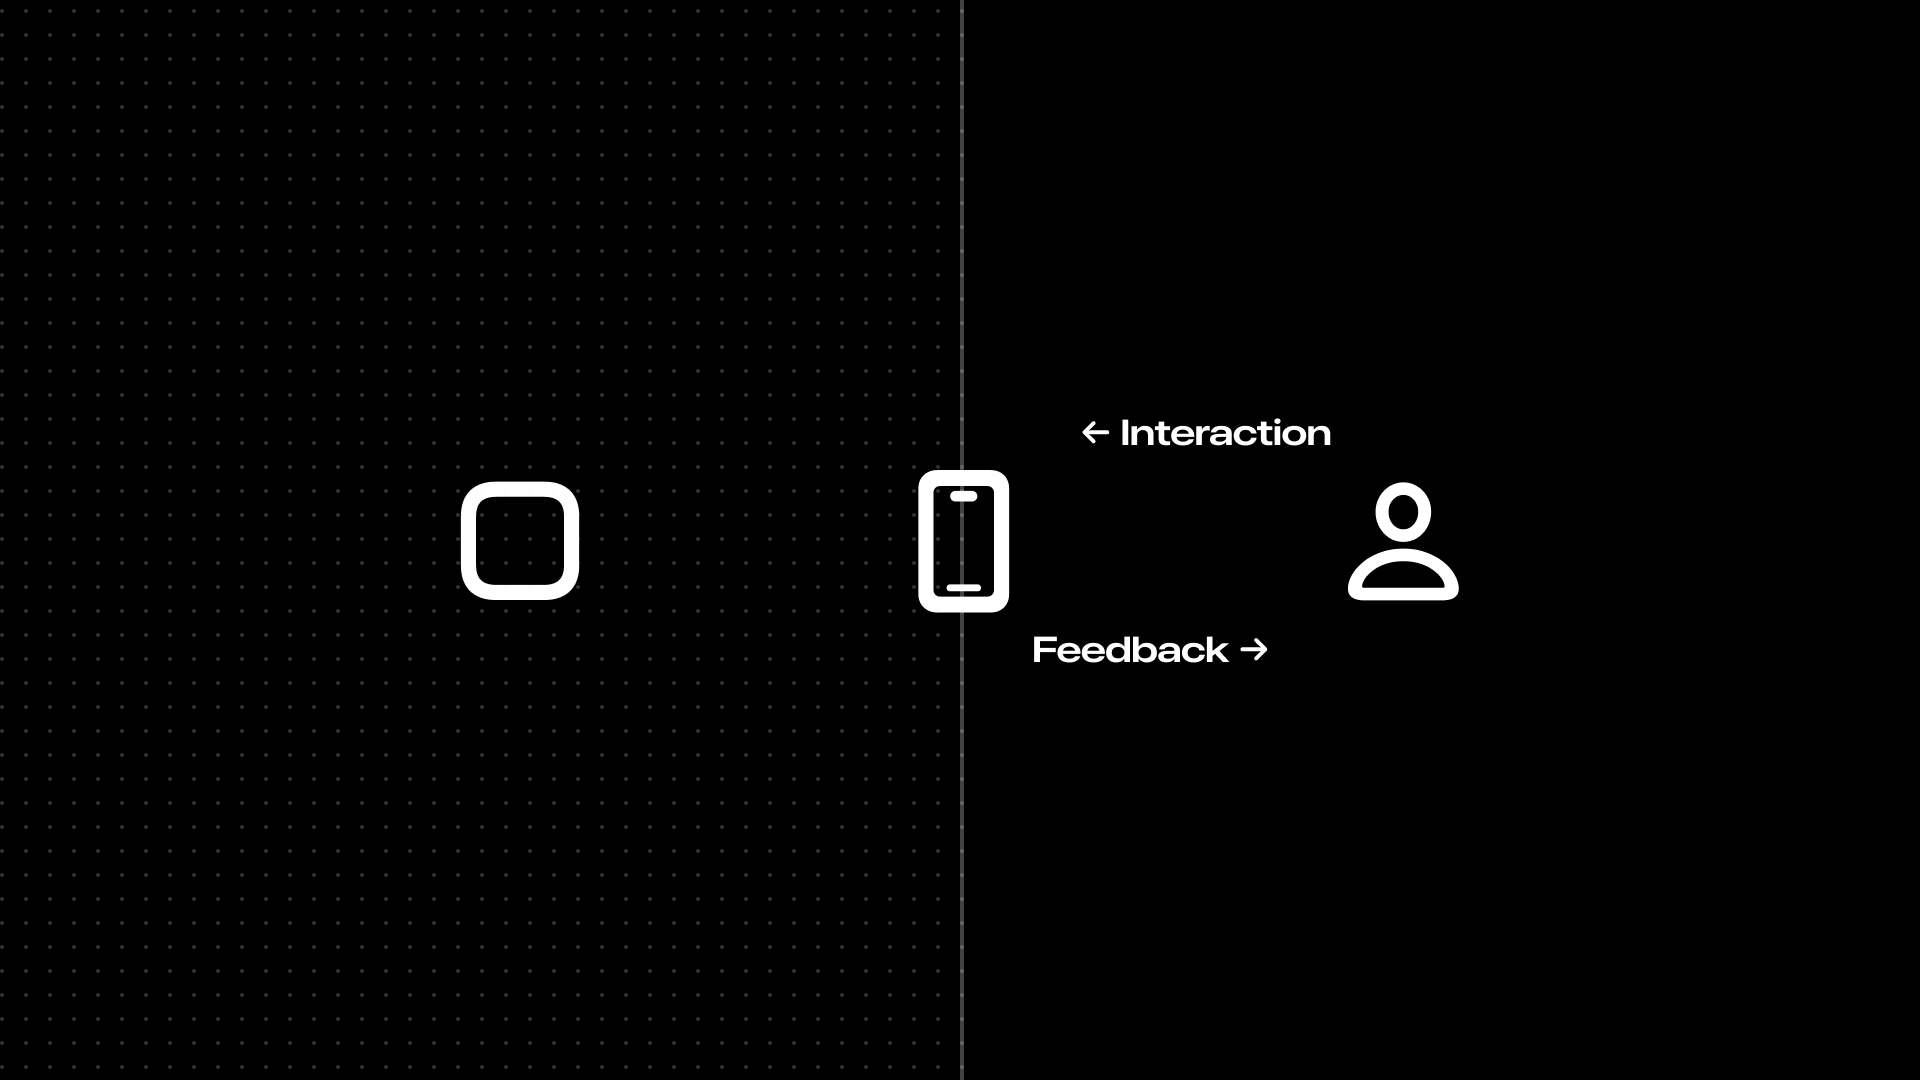
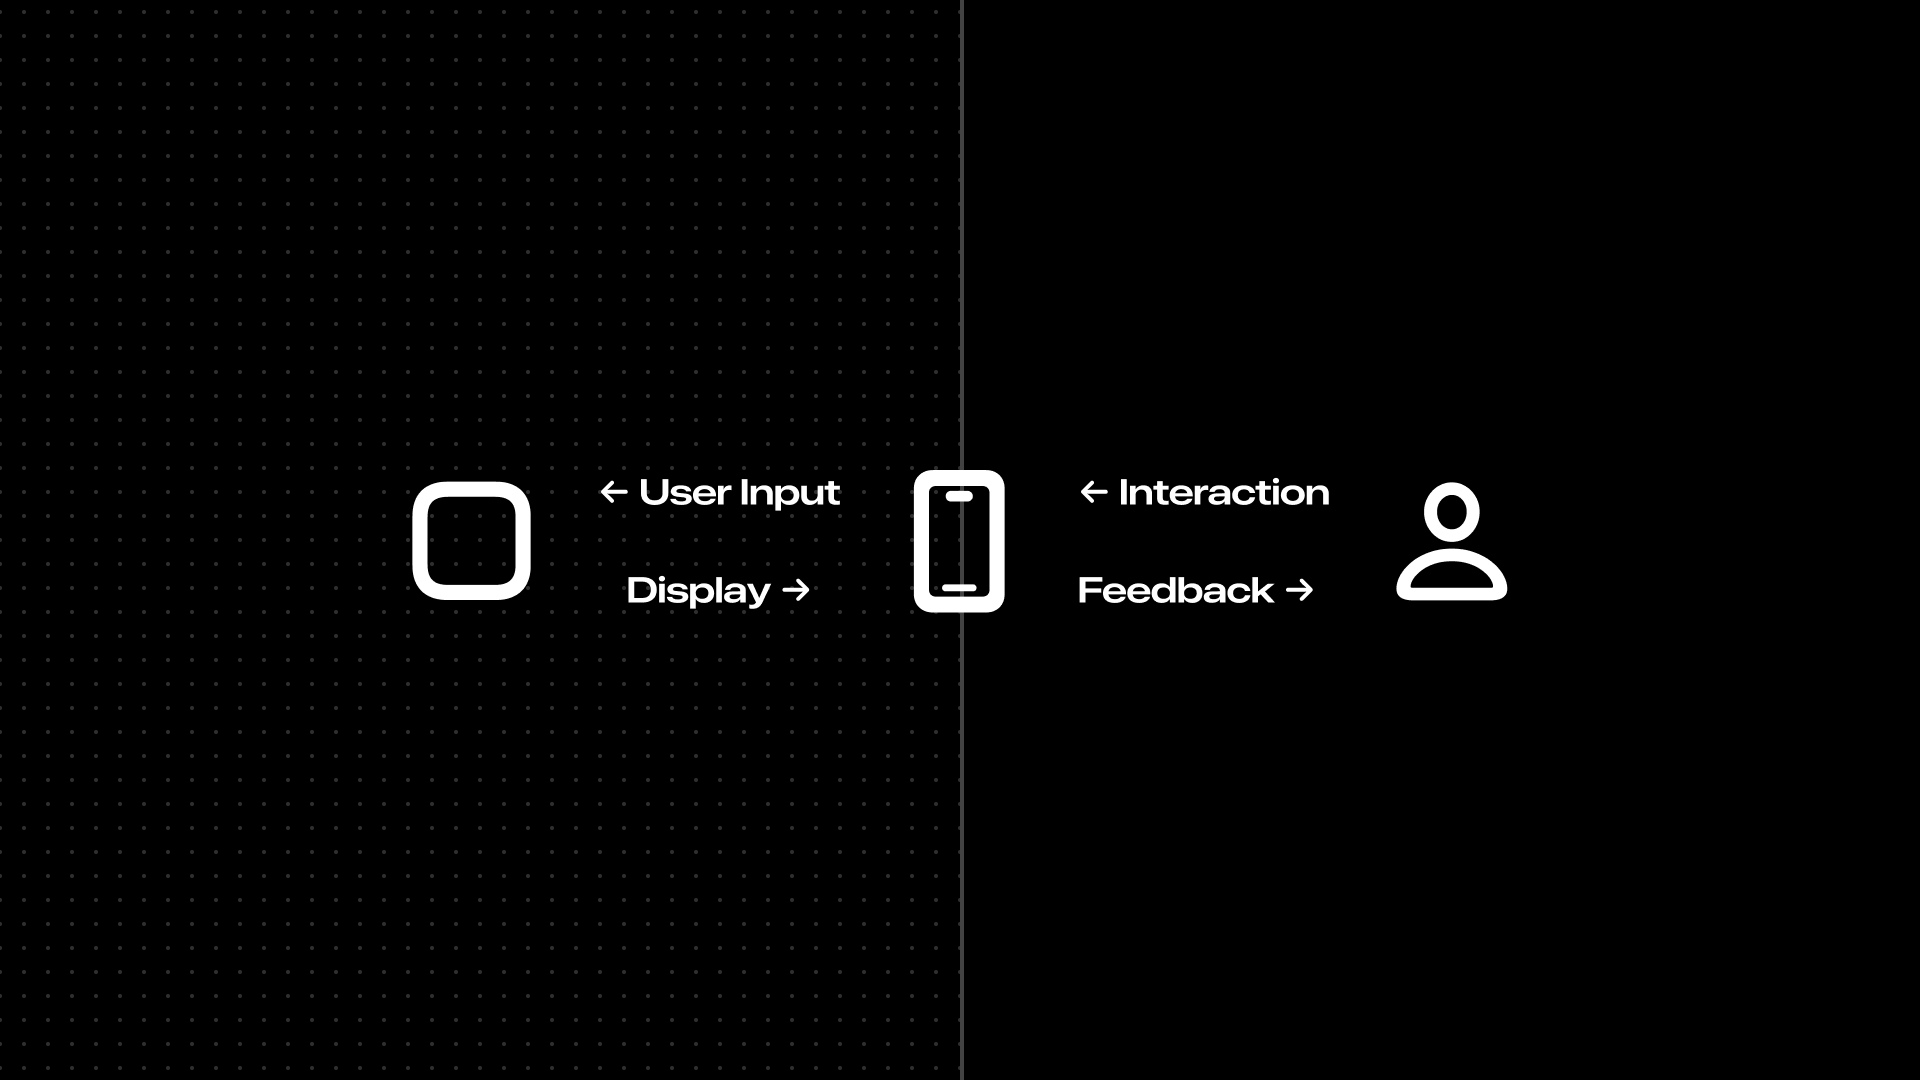
add

diff --git a/iOSDC/26/presentation.md b/iOSDC/26/presentation.md
@@ -151,7 +151,7 @@ code: SF Mono
 - ハードウェアはAppleが提供している
 - アプリはそのハードウェアに合わせて、価値を届ける
 
-^ このように、今日題材となっている「UIに柔軟性を持たせる」とは、ユーザーが置かれている状況によらず「やりたい」に応えることです。
+^ このように、今日題材となっている「UIに柔軟性を持たせる」とは、ユーザーが置かれている状況によらずユーザーの「やりたい」に応えることです。
 
 ---
 
@@ -185,16 +185,16 @@ code: SF Mono
 
 ![](33.png)
 
-^ まず、ユーザーは何らかの「目的」を実現するために、アプリを使います。
-^ そして、アプリに対してインタラクションをしたり、フィードバックを受け取ったりすることで、アプリと対話をします。
-^ この図で言うと、右がユーザーで、左がアプリです。
-^ この時、アプリとユーザーの仲介役として、中央のUser Interfaceが存在しています。
+^ まず、UIとユーザーの関係を考えてみます。
+^ 右にいるユーザーはこの図のようにUIを通して左側のアプリにアクセスします。
+^ メンタルモデルとしては、ユーザーはアプリと直接やり取りしているように思っていますが、実際には必ずUIを通してアプリとやり取りしています。
 
 ---
 
-![](9.png)
+![](33-2.png)
 
-^ ここで、関連する要素を抜き出してみると、ユーザーが行うアプリの操作には「目的」「インターフェース」「コンテキスト」の3つが関係していることが分かります。
+^ この時、アプリにはユーザーが達成したい「目的」が、ユーザーには取り巻く環境である「コンテキスト」があります。
+^ つまりユーザーが行うアプリの操作には「目的」「コンテキスト」「インターフェース」の3つが関係していることが分かります。
 
 ---
 
@@ -251,7 +251,7 @@ code: SF Mono
 # 何を柔軟にするのか
 
 ^ 次に、これらの要素のうち、どれが柔軟性を持つことに適した要素なのかを考えてみます。
-^ ３つのうち、２つを固定したときに、残りの１つは柔軟性を要求されることが分かります。
+^ ３つの要素うち、２つを固定して、残りの１つがどんな柔軟性を要求されるか観察してみます。
 
 ---
 
@@ -262,10 +262,13 @@ code: SF Mono
 - 目的：アプリを起動する
 - インターフェース：グリッドにアプリのボタンが並ぶ
 
-- コンテキスト：車を止めて、iPhoneを手に取る
+- コンテキスト：車を運転している → 車を止めて、スマホを操作する
+
+![right fit](fox_undraw_scene_2.png)
 
 ^ 目的とインターフェースが固定されている場合、コンテキストを変える必要があります。
-^ 例えば、目的は「アプリを起動すること」、インターフェースは「グリッドにアプリのボタンが並ぶこと」と固定されている場合、仮にユーザーが運転中の場合は操作をすることができず、ユーザーは「車を止める」というコンテキストを変える必要があります。
+^ 例えば、ユーザーが車を運転していたとします。
+^ ここで目的は「アプリを起動すること」、インターフェースは「グリッドにアプリのボタンが並ぶこと」と固定されている場合、ユーザーは「車を運転している」というコンテキストを変えて、目的を達成する必要があります。
 
 ---
 
@@ -278,8 +281,10 @@ code: SF Mono
 
 - インターフェース：ボイスコマンドでアプリを起動できる
 
+![right fit](fox_undraw_scene_3.png)
+
 ^ 次に目的とコンテキストが固定されている場合を考えてみましょう。
-^ 目的は「アプリを起動すること」、コンテキストは「車を運転していること」と固定されている場合、アプリはインターフェースを変える必要があります。
+^ ユーザーの目的は「アプリを起動すること」、コンテキストは「車を運転している」と固定されている場合、今度はアプリがインターフェースを変える必要があります。
 ^ 例えば、インターフェースを「ボイスコマンドでアプリを起動できる」と変えることで、ユーザーは運転中でも目的を達成することができます。
 
 ---
@@ -293,8 +298,11 @@ code: SF Mono
 
 - 目的： 今出来ることしか出来ないので、目的を変える必要がある
 
+![right fit](fox_undraw_scene_1.png)
+
 ^ 最後に、インターフェースとコンテキストが固定されている場合を考えてみましょう。
-^ 目的は「車を運転していること」、インターフェースは「グリッドにアプリのボタンが並ぶこと」と固定されている場合、ユーザーは音楽が聴きたいのに、アプリを起動することしかできず、目的を変える必要があります。
+^ ユーザーは「音楽を聴きたい」という目的を持っています。
+^ ここでコンテキストは「車を運転していること」、インターフェースは「グリッドにアプリのボタンが並ぶこと」と固定されている場合、ユーザーは音楽が聴きたいのに、アプリを起動することしかできず、目的を変えたり遠回りする必要があります。
 
 ---
 
@@ -340,13 +348,14 @@ code: SF Mono
 
 ![](35.png)
 
-^ このように、複数のインターフェースを提供することで、ユーザーは現在のコンテキストを変えずに目的を達成することができます。
+^ このように、複数のインターフェースを提供することで、ユーザーは目的とコンテキストを変えずに目的を達成することができます。
 
 ---
 
 ![](34.png)
 
 ^ つまり理想のインターフェースは目的とコンテキストから導出することができると考えることもできます。
+^ 実際には、ケースごとに実装していくことにはなりますが、考え方としてはこのように留めておくことで、コンテキストのバリエーションからインターフェースに別の姿があるのではないかなと疑えるようになるのではないかなと思います。
 
 ---
 
@@ -358,9 +367,9 @@ code: SF Mono
 
 ![](design-data.png)
 
-^ 我々は、普段アプリを実装するときに、デザインデータを見ながら作ることが多いかなと思います。
-^ 特に最近では、AIで直接デザインデータから実装に落とすこともできるようになってきています。
-^ この時、皆さんはデザインデータをどう見ていますか。設計図として見ている人も多いのではないでしょうか。
+^ みなさん、普段アプリを実装するときに、デザインデータを見ながら作ることが多いかなと思います。
+^ この時、皆さんはデザインデータをどう見ていますか。
+^ 特に最近では、デザインデータから直接AIで実装に落とすことも増えてきていて、デザインデータをある種の設計図として見ている人も多いのではないでしょうか。
 ^ 先ほどの式に当てはめると、「デザインデータ」に描かれているインターフェースとは、ある特定のコンテキストの中で、ある特定の目的を達成するためのインターフェースの一つに過ぎません。
 ^ だから、デザインデータをそのまま実装すると、柔軟性がないUIになってしまうのです。
 ^ でも皆さんは多分無意識にそれを解決しているはずです。402×874固定で作ることはないですよね。多少の解像度の違いがあっても壊れないように実装しているはずです。
@@ -377,7 +386,7 @@ code: SF Mono
 - ウィンドウのサイズ・ダークモードなど
 
 ^ さて、先ほど話した通り、目的というのは変わらないわけですから、インターフェースというのは、コンテキストによって決定されると言えます。
-^ コンテキストというのは、ユーザーの特徴や置かれている状況といった、アプリと無関係なものもあれば、アクセシビリティ設定、デバイス、ウィンドウのサイズのような、アプリと関係するものもあります。
+^ コンテキストというのは、ユーザーの特徴や置かれている状況といった、現実世界のものもあれば、アクセシビリティ設定、デバイス、ウィンドウのサイズのような、アプリと関係するものもあります。
 ^ たとえば、Dynamic Typeは文字の大きさを変え、デバイスやウィンドウは使える空間を変えます。
 
 ---
